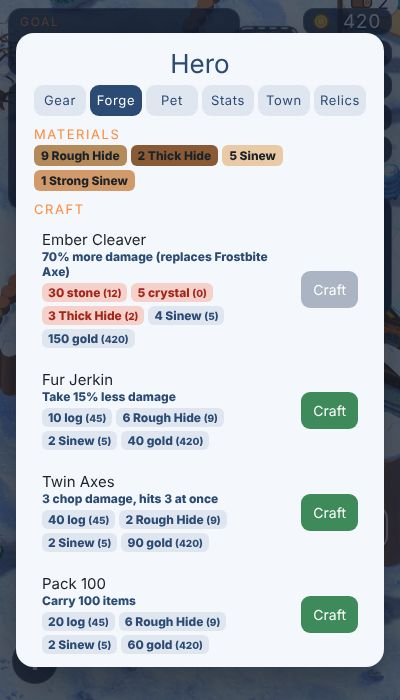
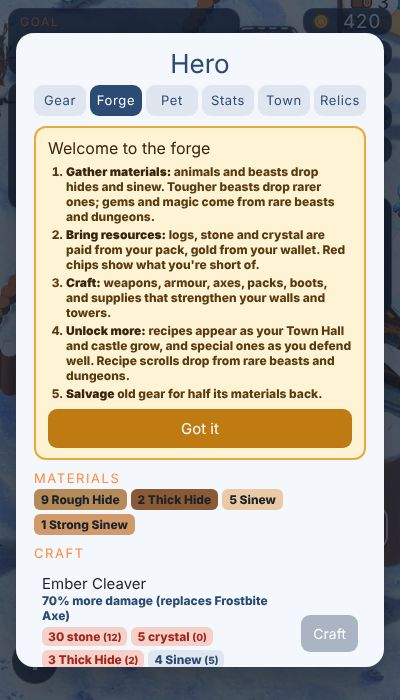
Forge tutorial, new-recipe alerts, recipe scrolls from rare beasts and dungeons, town supplies for walls and towers
Claude-Session: https://claude.ai/code/session_01B1L5Cqk9pSHD4f4xTSZniZ

diff --git a/index.html b/index.html
@@ -103,6 +103,8 @@ html,body{height:100%;margin:0;background:var(--ice);color:var(--ink);overflow:h
 #rejoin{position:fixed;inset:0;z-index:40;display:flex;align-items:center;justify-content:center;background:#1b2336;padding:0 16px}#rejoin .box{background:#f4f7fc;border-radius:18px;padding:22px;text-align:center;width:min(340px,100%)}#rejoin h2{margin:0 0 6px;font:26px var(--display);color:#2b4a74}#rejoin p{font:700 14px var(--body)}#rejoin button{border:2px solid #c9d6e8;background:#fff;border-radius:10px;padding:10px 14px;font:14px var(--display);color:#2b4a74;cursor:pointer}
 #forgeBtn{position:fixed;z-index:8;right:12px;bottom:calc(150px + env(safe-area-inset-bottom,0px));border:2px solid #fff;background:#8a4a2a;color:#fff;font:17px/1 var(--display);letter-spacing:.04em;padding:12px 16px;border-radius:14px;box-shadow:0 4px 0 rgba(0,0,0,.3);cursor:pointer}
 .craft .row{display:flex;gap:8px;align-items:center;background:#f4f7fb;border-radius:10px;padding:8px;margin:6px 0}.craft .row div{flex:1;font:800 12px var(--body);color:#2b4a74}.craft .row div b{display:block;font:15px var(--display);color:#1d2128}.craft .cost{display:flex;flex-wrap:wrap;gap:4px;margin-top:4px}.craft .cost span{background:#dfe6f0;border-radius:6px;padding:2px 6px}.craft .cost span.no{background:#f6d1cc;color:#a3271b}.craft .row button{border:0;border-radius:9px;padding:10px 12px;font:14px var(--display);background:#3f8a5a;color:#fff;cursor:pointer}.craft .row button:disabled{background:#aab4c2}.craft .row button.salv{background:#a3532b}.craft .row.rare{background:#e3efff;box-shadow:inset 0 0 0 2px #6fa8e8}.craft .row.legendary{background:#fff3d6;box-shadow:inset 0 0 0 2px #e8a83a}.craft .row em{font:800 10px var(--body);font-style:normal;text-transform:uppercase;padding:2px 6px;border-radius:6px;background:#2b4a74;color:#fff;vertical-align:middle}.craft .row.legendary em{background:#c07a12}
+.craft .ftut{background:#fff3d6;border:2px solid #e8a83a;border-radius:12px;padding:10px 12px;margin:4px 0 8px;font:800 12px var(--body);color:#5a3a10}.craft .ftut b{color:#3a2408}.craft .ftut>b{display:block;font:16px var(--display)}.craft .ftut ol{margin:6px 0 8px 18px;padding:0}.craft .ftut li{margin:3px 0}.craft .ftut button{width:100%;border:0;border-radius:9px;padding:10px;font:15px var(--display);background:#c07a12;color:#fff;cursor:pointer}
+#forgeBtn.new::after{content:'NEW';position:absolute;top:-8px;right:-8px;background:#e2483f;color:#fff;font:800 10px var(--body);padding:2px 5px;border-radius:6px}#forgeBtn{position:fixed}
 .craft .mats{display:flex;flex-wrap:wrap;gap:4px}.craft .mats span{background:#2b4a74;color:#fff;border-radius:6px;padding:3px 7px;font:800 12px var(--body)}.craft p{font:800 12px var(--body);color:#5a6b80;margin:6px 0}
 #tameBtn{position:fixed;z-index:8;left:50%;transform:translateX(-50%);bottom:calc(78px + env(safe-area-inset-bottom,0px));border:2px solid #fff;background:#3f8a5a;color:#fff;font:17px/1 var(--display);letter-spacing:.04em;padding:14px 20px;border-radius:14px;box-shadow:0 6px 18px rgba(0,0,0,.3);cursor:pointer;white-space:nowrap}
 #chipMenu{position:fixed;z-index:9;display:flex;flex-direction:column;gap:6px;background:var(--panel);border:1px solid var(--panel-line);border-radius:12px;padding:7px}
@@ -956,7 +958,7 @@ const S = {
   step: 0, over: false, declineT: 0, growT: 0, taxT: 0, won: false, time: 0,
 };
 const workers = [], guards = [];
-const cap = () => CAPS[S.bag];
+const cap = () => CAPS[S.bag] + ((S.specials || []).includes('hidepack') ? 100 : 0);
 const carry = { log: [], meat: [], ore: [], stone: [] };
 let reserved = 0;
 const carried = () => carry.log.length + carry.meat.length + carry.ore.length + carry.stone.length;
@@ -1195,7 +1197,7 @@ function makeRing(tier) {
   rings.push(r); return r;
 }
 for (let t = 0; t < 3; t++) makeRing(t);
-const segMax = s => SEG_HP[s.tier] * (s.isGate ? 1.5 : 1) * (S.masonry ? 2 : 1) * (1 + (S.wallLv || 0) * 0.75) * (1 + (S.castle || 0) * 0.8);   // castle stone walls
+const segMax = s => SEG_HP[s.tier] * (s.isGate ? 1.5 : 1) * (S.masonry ? 2 : 1) * (1 + (S.wallLv || 0) * 0.75) * (1 + (S.castle || 0) * 0.8) * (1 + (S.braces || 0) * 0.2);   // castle stone walls, forged iron braces
 function setSegBuilt(s, on) { s.built = on; if (on) { s.stone = S.masonry || s.tier > 0; s.max = segMax(s); s.hp = s.max; } segVisual(s); }
 // the camp starts with the north and south walls and the gate standing; east and west are ruins
 rings[0].active = true;
@@ -1577,6 +1579,7 @@ function leaveDungeon(won) {
     (S.dungeons = S.dungeons || {})[D.d.i] = dayNo(); gainXP(40 * D.d.tier); questEvent('clear', 1);
     { const t = D.d.tier, o = {}; o[Math.random() < 0.5 ? 'spirit' : 'frostgem'] = 1;
       if (t >= 3 && Math.random() < 0.5) o.moonsilver = 1; if (t >= 4 && Math.random() < 0.35) o.voidopal = 1; if (t >= 4 && Math.random() < 0.3) o.emberruby = 1;
+      if (Math.random() < 0.25) o['scroll_' + (t >= 4 && Math.random() < 0.5 ? 'talisman' : 'greaves')] = 1;
       gainMats(o, player.x, player.z); }
     banner('Dungeon cleared!', true, (D.gold ? '+' + D.gold + ' gold collected · ' : '') + 'the treasure is yours'); play('treasure');
     openTreasure({ x: D.d.ex + 1.5, z: D.d.ez + 1.5, tier: Math.min(4, D.d.tier), g: new THREE.Group(), tag: { remove() {} }, guards: [], questReward: true });
@@ -2527,6 +2530,7 @@ function hurtHero(dmg) {
   if (S.downT > 0) return;
   dmg *= 1 - (S.armorLv >= 0 ? ARMORS[S.armorLv].a : 0);
   if (hasSpecial('shield')) dmg *= 0.88;
+  if (hasSpecial('shroud')) dmg *= 0.92;
   S.hp -= dmg; S.hurtT = 3; play('hurt'); burst(player.x, 1.2, player.z, 0xd9524b, 3, 2);
   if (S.hp <= 0) {
     const team = Object.keys(NET.remotes).length > 0;
@@ -2659,7 +2663,7 @@ function tameCandidate() {
   return b;
 }
 function updateTaming(dt) {
-  $('forgeBtn').hidden = !nearForge() || DUN;
+  $('forgeBtn').hidden = !nearForge() || DUN; checkNewRecipes(dt);
   const btn = $('tameBtn'), c = taming > 0 ? tameTgt : tameCandidate();
   $('tameNo').hidden = !c || !c.alive || taming > 0; $('tameNo').onclick = e => { e.stopPropagation(); if (c) c.noTame = true; };
   if (!c || !c.alive) { btn.hidden = true; taming = 0; tameTgt = null; return; }
@@ -3140,11 +3144,11 @@ function update(dt) {
 
   /* --- towers --- */
   if (!isGuest()) for (const t of towers) {
-    t.cd -= dt; const rng = (S.horn ? 22 : 17) + (t.lv - 1) * 2.5 + (S.rangeLv || 0) * 4 + (S.castle || 0) * 3; let best = null, bd = rng * rng;
+    t.cd -= dt; const rng = (S.horn ? 22 : 17) + (t.lv - 1) * 2.5 + (S.rangeLv || 0) * 4 + (S.castle || 0) * 3 + (S.totem || 0) * 3; let best = null, bd = rng * rng;
     for (const e of enemies) if (e.alive) { const d = d2(e.x, e.z, t.x, t.z); if (d < bd) { bd = d; best = e; } }
     if (best) {
       t.archer.g.rotation.y = Math.atan2(best.x - t.x, best.z - t.z);
-      if (t.cd <= 0) { t.cd = [0.75, 0.55, 0.42][S.towerLv] * [1, 0.75, 0.7, 0.6][t.lv - 1]; const a = new THREE.Mesh(arrowGeo, mat(0x4a3424)); a.position.set(t.x, 4, t.z); scene.add(a); arrows.push({ m: a, e: best, t: 0, dmg: [2, 3, 5][S.towerLv] * [1, 1.5, 2.4, 3][t.lv - 1] * (1 + (S.castle || 0) * 0.6), frost: t.lv >= 4 }); play('arrow', 0, t.x, t.z); }
+      if (t.cd <= 0) { t.cd = [0.75, 0.55, 0.42][S.towerLv] * [1, 0.75, 0.7, 0.6][t.lv - 1]; const a = new THREE.Mesh(arrowGeo, mat(0x4a3424)); a.position.set(t.x, 4, t.z); scene.add(a); arrows.push({ m: a, e: best, t: 0, dmg: [2, 3, 5][S.towerLv] * [1, 1.5, 2.4, 3][t.lv - 1] * (1 + (S.castle || 0) * 0.6) * (1 + (S.runes || 0) * 0.2), frost: t.lv >= 4 }); play('arrow', 0, t.x, t.z); }
     }
   }
   for (let i = arrows.length - 1; i >= 0; i--) {
@@ -3368,12 +3372,14 @@ const DROPS = {
   mammoth: [['hide4', 0.07], ['sinew3', 0.1], ['frostgem', 0.1]], trex: [['hide4', 0.06], ['sinew4', 0.05], ['emberruby', 0.08]], dragon: [['hide4', 0.08], ['sinew4', 0.06], ['dragonheart', 0.04], ['voidopal', 0.05]],
 };
 function rollMats(type, x, z, elite) {
-  const out = {}; (DROPS[type] || []).forEach(([m, c]) => { if (Math.random() < Math.min(1, c * (elite ? 3 : 1))) out[m] = (out[m] || 0) + 1 + (elite ? 1 : 0); });
+  const out = {}; const sd = SCROLL_DROP[type]; if (sd && !(S.scrolls || []).includes(sd[0]) && Math.random() < sd[1] * (elite ? 3 : 1)) out['scroll_' + sd[0]] = 1;
+  (DROPS[type] || []).forEach(([m, c]) => { if (Math.random() < Math.min(1, c * (elite ? 3 : 1))) out[m] = (out[m] || 0) + 1 + (elite ? 1 : 0); });
   return out;
 }
 function gainMats(o, x, z) {
   const M = S.mats = S.mats || {}; let i = 0;
-  for (const k in o) { M[k] = (M[k] || 0) + o[k]; floatText('+' + o[k] + ' ' + MATS[k], x, 2.6 + i++ * 0.5, z, 'xp'); }
+  for (const k in o) { if (k.startsWith('scroll_')) { const id = k.slice(7), x = SPECIALS.find(q => q.id === id); if (x && !(S.scrolls = S.scrolls || []).includes(id)) { S.scrolls.push(id); banner('Recipe scroll found!', true, x.n + ' can now be forged'); play('treasure'); } continue; }
+    M[k] = (M[k] || 0) + o[k]; floatText('+' + o[k] + ' ' + MATS[k], x, 2.6 + i++ * 0.5, z, 'xp'); }
   if (i) play('coin');
 }
 // a kill by me drops for me; a teammate's kill is resolved here and sent to them
@@ -3406,7 +3412,48 @@ const SPECIALS = [
   { id: 'shield', n: 'Bulwark Shield', d: 'Take 12% less damage on top of armour', hint: 'Beat 6 raids without a wall breaking, with Town Hall III', cr: 6, ok: () => (S.cleanRaids || 0) >= 6 && S.th >= 3, c: { stone: 80, ore: 20, moonsilver: 2, cash: 1200 } },
   { id: 'heart', n: 'Heart of Frosthold', d: 'Legendary: +60 max health and +30% damage', hint: 'Repel a dragon siege at Castle III', leg: 1, ok: () => (S.dragonWins || 0) >= 1, c: { dragonheart: 1, voidopal: 1, moonsilver: 2, cash: 5000 }, give: () => { S.bonusHp += 60; S.bonusDmg += 0.3; } },
 ];
-const hasSpecial = id => (S.specials || []).includes(id);   // town hall needed for each weapon / armour tier
+const hasSpecial = id => (S.specials || []).includes(id);
+// recipe scrolls: found in dungeons and on rare beasts, they teach rare items
+SPECIALS.push(
+  { id: 'claws', n: 'Raptor Claw Gauntlets', d: '+20% damage', scroll: 1, hint: 'Recipe scroll: raptors and sabre tigers', c: { hide3: 3, sinew3: 3, emberruby: 1, cash: 800 }, give: () => { S.bonusDmg += 0.2; } },
+  { id: 'shroud', n: 'Wraith Shroud', d: 'Take 8% less damage', scroll: 1, hint: 'Recipe scroll: wraiths', c: { hide3: 2, spirit: 3, cash: 700 } },
+  { id: 'hidepack', n: 'Mammoth Hide Pack', d: 'Carry 100 more items', scroll: 1, hint: 'Recipe scroll: mammoths', c: { hide4: 3, sinew3: 4, cash: 900 } },
+  { id: 'greaves', n: 'Glacier Greaves', d: '+15% speed', scroll: 1, hint: 'Recipe scroll: dungeons', c: { hide2: 4, frostgem: 2, sinew2: 3, cash: 600 }, give: () => { S.speedBonus += 0.15; } },
+  { id: 'talisman', n: 'Ember Talisman', d: 'Legendary: +50 max health', scroll: 1, leg: 1, hint: 'Recipe scroll: T-rexes and the deepest dungeons', c: { emberruby: 2, moonsilver: 1, voidopal: 1, cash: 2500 }, give: () => { S.bonusHp += 50; } });
+SPECIALS.forEach(x => { if (x.scroll) x.ok = () => (S.scrolls || []).includes(x.id); });
+const SCROLL_DROP = { raptor: ['claws', 0.03], tiger: ['claws', 0.03], wraith: ['shroud', 0.03], mammoth: ['hidepack', 0.04], trex: ['talisman', 0.03] };
+// structure supplies: crafted for the whole town (host or solo player)
+const SUPPLIES = [
+  { id: 'planks', n: 'Bracing Planks', d: 'Repairs every wall to full right now', c: { log: 40, sinew1: 4 }, ok: () => rings.some(r => r.segs.some(sg => sg.built || sg.broken)) },
+  { id: 'braces', n: 'Iron Wall Braces', d: 'Walls get +20% health for good', max: 3, th: 2, c: { stone: 40, ore: 10, hide2: 2, cash: 200 } },
+  { id: 'runes', n: 'Tower Runes', d: 'Towers deal +20% damage for good', max: 3, th: 2, c: { ore: 25, spirit: 1, frostgem: 1, cash: 400 } },
+  { id: 'totem', n: 'Warding Totem', d: 'Towers shoot +3 m farther for good', max: 2, th: 3, c: { stone: 60, sinew3: 2, moonsilver: 1, cash: 600 } },
+];
+function repairAllWalls() { rings.forEach(r => r.segs.forEach(sg => { if (!sg.built && !sg.broken) return; if (sg.broken) { setSegBuilt(sg, true); sg.broken = false; } sg.max = segMax(sg); sg.hp = sg.max; segVisual(sg); })); }
+function supplyList() {
+  return SUPPLIES.filter(x => S.th >= (x.th || 1) && (!x.max || (S[x.id] || 0) < x.max) && (!x.ok || x.ok())).map(x => ({ ...x, n: x.n + (x.max ? ' ' + ROMAN[(S[x.id] || 0) + 1] : ''), afford: canAfford(x.c) }));
+}
+function doSupply(id) {
+  const x = SUPPLIES.find(q => q.id === id); if (!x || isGuest() || !canAfford(x.c)) return;
+  payCost(x.c); play('fanfare'); gainXP(30);
+  if (id === 'planks') repairAllWalls();
+  else { S[id] = (S[id] || 0) + 1; if (id === 'braces') rings.forEach(r => r.segs.forEach(sg => { if (sg.built) { const f = sg.hp / sg.max; sg.max = segMax(sg); sg.hp = sg.max * f; } })); }
+  banner(x.n + '!', true, x.d);
+}
+// recipes the player can see right now, for "new recipe" alerts
+function recipeKeys() {
+  return craftList().map(r => r.id + ':' + r.n).concat(SPECIALS.filter(x => !hasSpecial(x.id) && x.ok()).map(x => 'sp:' + x.id), supplyList().map(x => 'su:' + x.id));
+}
+let recipeT = 1;
+function checkNewRecipes(dt) {
+  if ((recipeT -= dt) > 0 || !B.smith || loading) return; recipeT = 2;
+  const seen = S.seenRecipes = S.seenRecipes || [], fresh = recipeKeys().filter(k => !seen.includes(k));
+  if (!fresh.length) return; fresh.forEach(k => seen.push(k)); if (seen.length > 200) seen.splice(0, seen.length - 200);
+  if (!S.forgeSeen) return;   // the first visit introduces them all
+  const nm = fresh.map(k => k.startsWith('sp:') ? SPECIALS.find(x => x.id === k.slice(3)).n : k.startsWith('su:') ? SUPPLIES.find(x => x.id === k.slice(3)).n : k.split(':')[1]);
+  banner('New forge recipe' + (nm.length > 1 ? 's' : '') + '!', true, nm.slice(0, 3).join(', ') + (nm.length > 3 ? ' and more' : '') + ' · visit the blacksmith'); play('chime');
+  $('forgeBtn').classList.add('new');
+}   // town hall needed for each weapon / armour tier
 const RANGED_COST = [{ log: 30, cash: 60 }, { log: 60, stone: 30, cash: 180 }, { ore: 30, stone: 40, cash: 500 }];
 const haveOf = k => k === 'cash' ? S.wallet : carry[k] ? carry[k].length : ((S.mats || {})[k] || 0);
 const canAfford = c => Object.keys(c).every(k => haveOf(k) >= c[k]);
@@ -3466,15 +3513,19 @@ const costTxt = c => Object.keys(c).filter(k => c[k]).map(k => c[k] + ' ' + (MAT
 const costChips = c => '<span class="cost">' + Object.keys(c).filter(k => c[k]).map(k => `<span class="${haveOf(k) >= c[k] ? '' : 'no'}">${c[k]} ${MATS[k] || resName(k)} <small>(${haveOf(k)})</small></span>`).join('') + '</span>';
 function showForge() {
   let h = tabsHtml() + '<div class="craft">';
+  if (!S.forgeSeen) h += `<div class="ftut"><b>Welcome to the forge</b><ol><li><b>Gather materials:</b> animals and beasts drop hides and sinew. Tougher beasts drop rarer ones; gems and magic come from rare beasts and dungeons.</li><li><b>Bring resources:</b> logs, stone and crystal are paid from your pack, gold from your wallet. Red chips show what you're short of.</li><li><b>Craft:</b> weapons, armour, axes, packs, boots, and supplies that strengthen your walls and towers.</li><li><b>Unlock more:</b> recipes appear as your Town Hall and castle grow, and special ones as you defend well. Recipe scrolls drop from rare beasts and dungeons.</li><li><b>Salvage</b> old gear for half its materials back.</li></ol><button type="button" data-ftut="1">Got it</button></div>`;
+  $('forgeBtn').classList.remove('new');
   const M = S.mats || {}, owned = Object.keys(MATS).filter(k => M[k] > 0);
   h += '<h3>Materials</h3><div class="mats">' + (owned.length ? owned.map(k => `<span style="background:${MAT_COL[k]};color:#1d2128">${M[k]} ${MATS[k]}</span>`).join('') : '<p>None yet. Hunt animals and slay beasts: tougher creatures drop rarer hides and sinew, but less often.</p>') + '</div>';
   if (!B.smith) h += '<p>Build the blacksmith to open the forge.</p>';
   else if (!nearForge()) h += '<p>Stand by the blacksmith to craft and salvage. Logs, stone and crystal are paid from your pack.</p>';
   h += '<h3>Craft</h3>' + craftList().map(r => `<div class="row${r.r ? ' ' + r.r.toLowerCase() : ''}"><div><b>${r.n}${r.r ? ' <em>' + r.r + '</em>' : ''}</b>${r.d}${r.lock ? '<br>Needs Town Hall ' + ROMAN[r.th] : costChips(r.c)}</div><button type="button" data-craft="${r.id}" ${r.ok && nearForge() ? '' : 'disabled'}>Craft</button></div>`).join('');
   const sp = SPECIALS.filter(x => !hasSpecial(x.id) && x.ok()), hidden = SPECIALS.filter(x => !hasSpecial(x.id) && !x.ok());
-  if (sp.length) h += '<h3>Special</h3>' + sp.map(x => `<div class="row ${x.leg ? 'legendary' : 'rare'}"><div><b>${x.n} <em>${x.leg ? 'Legendary' : 'Special'}</em></b>${x.d}${costChips(x.c)}</div><button type="button" data-craft="sp:${x.id}" ${canAfford(x.c) && nearForge() ? '' : 'disabled'}>Craft</button></div>`).join('');
+  const su = supplyList();
+  if (su.length) h += '<h3>Town supplies</h3>' + (isGuest() ? '<p>Only the host can strengthen the town.</p>' : '') + su.map(x => `<div class="row"><div><b>${x.n}</b>${x.d}${costChips(x.c)}</div><button type="button" data-supply="${x.id}" ${x.afford && nearForge() && !isGuest() ? '' : 'disabled'}>Craft</button></div>`).join('');
+  if (sp.length) h += '<h3>Special</h3>' + sp.map(x => `<div class="row ${x.leg ? 'legendary' : 'rare'}"><div><b>${x.n} <em>${x.leg ? 'Legendary' : x.scroll ? 'Scroll' : 'Special'}</em></b>${x.d}${costChips(x.c)}</div><button type="button" data-craft="sp:${x.id}" ${canAfford(x.c) && nearForge() ? '' : 'disabled'}>Craft</button></div>`).join('');
   const nextTH = S.th < 3 ? 'Town Hall ' + ROMAN[S.th + 1] : (S.castle || 0) < 2 ? 'Castle ' + ROMAN[(S.castle || 0) + 1] : '';
-  h += '<p>' + (nextTH ? 'More recipes appear at ' + nextTH + '. ' : '') + (hidden.length ? hidden.length + ' special recipe' + (hidden.length > 1 ? 's are' : ' is') + ' still hidden: grow stronger, survive longer and defend your walls well (' + (S.cleanRaids || 0) + ' raids beaten with no wall broken).' : '') + '</p>';
+  h += '<p>' + (nextTH ? 'More recipes appear at ' + nextTH + '. ' : '') + (hidden.length ? hidden.length + ' special recipe' + (hidden.length > 1 ? 's are' : ' is') + ' still hidden: grow stronger, survive longer, defend your walls well (' + (S.cleanRaids || 0) + ' raids beaten with no wall broken) and hunt for recipe scrolls on rare beasts and in dungeons.' : '') + '</p>';
   const sv = salvageList();
   h += '<h3>Salvage</h3><p>Break down gear you own for half its materials and gold back.</p>' + (sv.length ? sv.map(r => `<div class="row"><div><b>${r.n}</b>${r.d}<span class="cost"><span>+ ${costTxt(r.r)}</span></span></div><button type="button" class="salv" data-salv="${r.id}" ${nearForge() ? '' : 'disabled'}>Salvage</button></div>`).join('') : '<p>Nothing to salvage yet.</p>');
   $('statsBody').innerHTML = h + '</div>'; $('stats').hidden = false;
@@ -3838,6 +3889,8 @@ $('statsBtn').addEventListener('click', e => { e.stopPropagation(); heroTab = 'g
 $('closeStats').addEventListener('click', () => { $('stats').hidden = true; });
 $('statsBody').addEventListener('click', e => {
   if (e.target.closest('[data-rename]') && S.pet) { e.stopPropagation(); const n = prompt('Rename your pet:', S.pet.name); if (n && n.trim()) S.pet.name = n.trim().slice(0, 14); showStats(); return; }
+  if (e.target.closest('[data-ftut]')) { e.stopPropagation(); S.forgeSeen = true; savePersonal(); showStats(); return; }
+  const su = e.target.closest('[data-supply]'); if (su) { e.stopPropagation(); doSupply(su.dataset.supply); showStats(); return; }
   const cf = e.target.closest('[data-craft]'); if (cf) { e.stopPropagation(); doCraft(cf.dataset.craft); showStats(); return; }
   const sv = e.target.closest('[data-salv]'); if (sv) { e.stopPropagation(); doSalvage(sv.dataset.salv); showStats(); return; }
   const tb = e.target.closest('[data-tab]'); if (tb) { e.stopPropagation(); heroTab = tb.dataset.tab; heroPick = null; showStats(); return; }
@@ -4098,7 +4151,7 @@ const NET = { mode: 'solo', room: null, me: null, host: null, seq: 0, buf: new M
   lastSeq: {}, remotes: {}, presT: 0, flushT: 0, worldT: 0, hostSeen: 0, lastHostPres: null, padKey: '', known: new Set(), th: 1 };
 function isGuest() { return NET.mode === 'guest'; }
 function isHost() { return NET.mode === 'host'; }
-const SYNC_KEYS = ['cleanRaids', 'castle', 'dragonWins', 'rangeLv', 'lastRaidDay', 'wallLv', 'houseLv', 'clock', 'season', 'civ', 'warm', 'food', 'th', 'cook', 'houses', 'wave', 'waveT', 'raidOn', 'blizOn', 'towerLv', 'masonry', 'guardLv', 'bank', 'carpenter', 'mine', 'gold', 'warmUp', 'foodUp', 'bell', 'priceMul', 'taxMul', 'boots', 'medic', 'sleds', 'horn', 'won', 'over'];
+const SYNC_KEYS = ['braces', 'runes', 'totem', 'cleanRaids', 'castle', 'dragonWins', 'rangeLv', 'lastRaidDay', 'wallLv', 'houseLv', 'clock', 'season', 'civ', 'warm', 'food', 'th', 'cook', 'houses', 'wave', 'waveT', 'raidOn', 'blizOn', 'towerLv', 'masonry', 'guardLv', 'bank', 'carpenter', 'mine', 'gold', 'warmUp', 'foodUp', 'bell', 'priceMul', 'taxMul', 'boots', 'medic', 'sleds', 'horn', 'won', 'over'];
 const ROLE_IDS = ['logger', 'hunter', 'stonecutter', 'miner', 'hauler', 'mender'];
 const R2 = v => Math.round(v * 100) / 100;
 function netAct(kind, target, a, b) {
@@ -4519,7 +4572,7 @@ $('coop').addEventListener('click', e => {
 const SAVE_KEY = 'frosthold-save-v6';
 const WORKER_HOME = { hauler: [0, 17], mender: [8.2, 9], logger: [6, 18.5], hunter: [16.5, 16.3], stonecutter: [-16.5, 25.4], miner: [-25.5, -10] };
 function clearSave() { try { localStorage.removeItem(SAVE_KEY); } catch (e) {} }
-const HERO_KEYS = ['runLv', 'tamer', 'pet', 'rangedOwn', 'rangedOn', 'wardrobe', 'wear', 'axe', 'bag', 'pick', 'weapon', 'armorLv', 'mats', 'specials', 'bonusHp', 'bonusDmg', 'speedBonus', 'medkits', 'relics', 'xp', 'lvl'];
+const HERO_KEYS = ['runLv', 'tamer', 'pet', 'rangedOwn', 'rangedOn', 'wardrobe', 'wear', 'axe', 'bag', 'pick', 'weapon', 'armorLv', 'mats', 'specials', 'scrolls', 'seenRecipes', 'forgeSeen', 'bonusHp', 'bonusDmg', 'speedBonus', 'medkits', 'relics', 'xp', 'lvl'];
 let heroReady = false;   // only save the hero once it has been loaded, so a rejoin in progress never overwrites it
 // each co-op room has its own hero: joining a new room starts at level 1, rejoining the same room picks up where you left off
 let heroLoadedKey = null;
@@ -4683,6 +4736,6 @@ function frame(now) {
 }
 requestAnimationFrame(t => { last = t; frame(t); });
 
-window.__frost = { renderer, scene, hurtHero, wilds, wildCamps, openTreasure, NET, liveSize: () => JSON.stringify(liveState()).length, piles, saveGame, waypoint, give: (t, n) => { for (let i = 0; i < n; i++) addToStack(t); }, S, player, carry, stalls, pads, trees, yaks, enemies, workers, guards, rocks, rings, B, goal, pallets, walkers, checkRings, setSegBuilt, padTH, RUINS, SCENERY, LAKES, DUNGEONS, obstacles, padCastle, padTH, raidPack, maxGuards, guards, towers, tameIt: c => tameIt(c), getPet: () => pet, stalls: stalls, enterDungeon, dunKeys, dun: () => DUN, dstep: dt => dungeonStep(dt), mshots: () => mshots, applySeason, sim: secs => { for (let t = 0; t < secs; t += 0.04) update(0.04); }, ringSecure, padHomes, roleCount, maxWorkers, housing, pop, dayNo, makeRemote, remoteExtras, PROFILE, applyCoat, P0 };
+window.__frost = { gainMats, renderer, scene, hurtHero, wilds, wildCamps, openTreasure, NET, liveSize: () => JSON.stringify(liveState()).length, piles, saveGame, waypoint, give: (t, n) => { for (let i = 0; i < n; i++) addToStack(t); }, S, player, carry, stalls, pads, trees, yaks, enemies, workers, guards, rocks, rings, B, goal, pallets, walkers, checkRings, setSegBuilt, padTH, RUINS, SCENERY, LAKES, DUNGEONS, obstacles, padCastle, padTH, raidPack, maxGuards, guards, towers, tameIt: c => tameIt(c), getPet: () => pet, stalls: stalls, enterDungeon, dunKeys, dun: () => DUN, dstep: dt => dungeonStep(dt), mshots: () => mshots, applySeason, sim: secs => { for (let t = 0; t < secs; t += 0.04) update(0.04); }, ringSecure, padHomes, roleCount, maxWorkers, housing, pop, dayNo, makeRemote, remoteExtras, PROFILE, applyCoat, P0 };
 })();
 </script>

diff --git a/README.md b/README.md
@@ -94,7 +94,8 @@ Three gold-only upgrade spaces sit around the plaza: comfort (supplies last long
   - **Shaggy Pelt, Beast Sinew:** yetis, wraiths, golems, raptors, sabre tigers (rare).
   - **Dragon Scale, Ancient Sinew:** mammoths, T-rexes, dragons (very rare).
   - Camp legends drop three times as often and give extra. In co-op, materials from your kills go to you.
-- **The forge:** stand by the blacksmith and tap **⚒ Forge** (or cog → Hero → Forge). Logs, stone and crystal come from your pack; gold from your wallet. Each item lists what it needs and how much you have.
+- **The forge:** stand by the blacksmith and tap **⚒ Forge** (or cog → Hero → Forge). The first time, a short guide explains how it works. Logs, stone and crystal come from your pack; gold from your wallet. Each item lists what it needs and how much you have.
+- **New recipe alerts:** when a recipe becomes available (a Town Hall or castle upgrade, a special earned, a scroll found), a banner tells you and the Forge button shows **NEW** until you open it.
 - **Recipes reveal as your town grows:** the forge only shows what your Town Hall allows. New recipes appear with each Town Hall upgrade, rare gear at **Castle I** and legendary gear at **Castle II**. The forge tells you when the next ones unlock.
 - **What you can craft**, one tier at a time:
   - **Weapons:** Frostbite Axe → Ember Cleaver → Runic Greataxe (Town Hall II) → Raptor Fang Axe → Dragonbone Axe (Town Hall III).
@@ -119,6 +120,17 @@ Three gold-only upgrade spaces sit around the plaza: comfort (supplies last long
   - **Bulwark Shield** (12% less damage on top of armour): beat 6 raids with no wall broken, with Town Hall III.
   - **Heart of Frosthold** (legendary: +60 health, +30% damage): repel a dragon siege.
   - A banner tells you when a well-defended raid reveals one.
+- **Recipe scrolls** are rare drops that teach one-of-a-kind items (crafted once, always active). Camp legends drop them three times as often:
+  - **Raptor Claw Gauntlets** (+20% damage): raptors and sabre tigers.
+  - **Wraith Shroud** (take 8% less damage): wraiths.
+  - **Mammoth Hide Pack** (carry 100 more): mammoths.
+  - **Glacier Greaves** (+15% speed): any cleared dungeon (1 in 4).
+  - **Ember Talisman** (legendary, +50 health): T-rexes and the deepest dungeons.
+- **Town supplies** strengthen your settlement (in co-op only the host can craft them):
+  - **Bracing Planks:** repair every wall to full at once.
+  - **Iron Wall Braces I–III** (Town Hall II): +20% wall health each.
+  - **Tower Runes I–III** (Town Hall II): +20% tower damage each.
+  - **Warding Totem I–II** (Town Hall III): towers shoot 3 m farther each.
 - **Salvage:** break down gear you own (weapon, armour, ranged weapons, helmets, capes) for half its gold and materials back; logs, stone and crystal come back as gold. Salvaging a weapon or armour drops you one tier.
 - Materials are shown on the Forge tab and in your Hero inventory.
 
